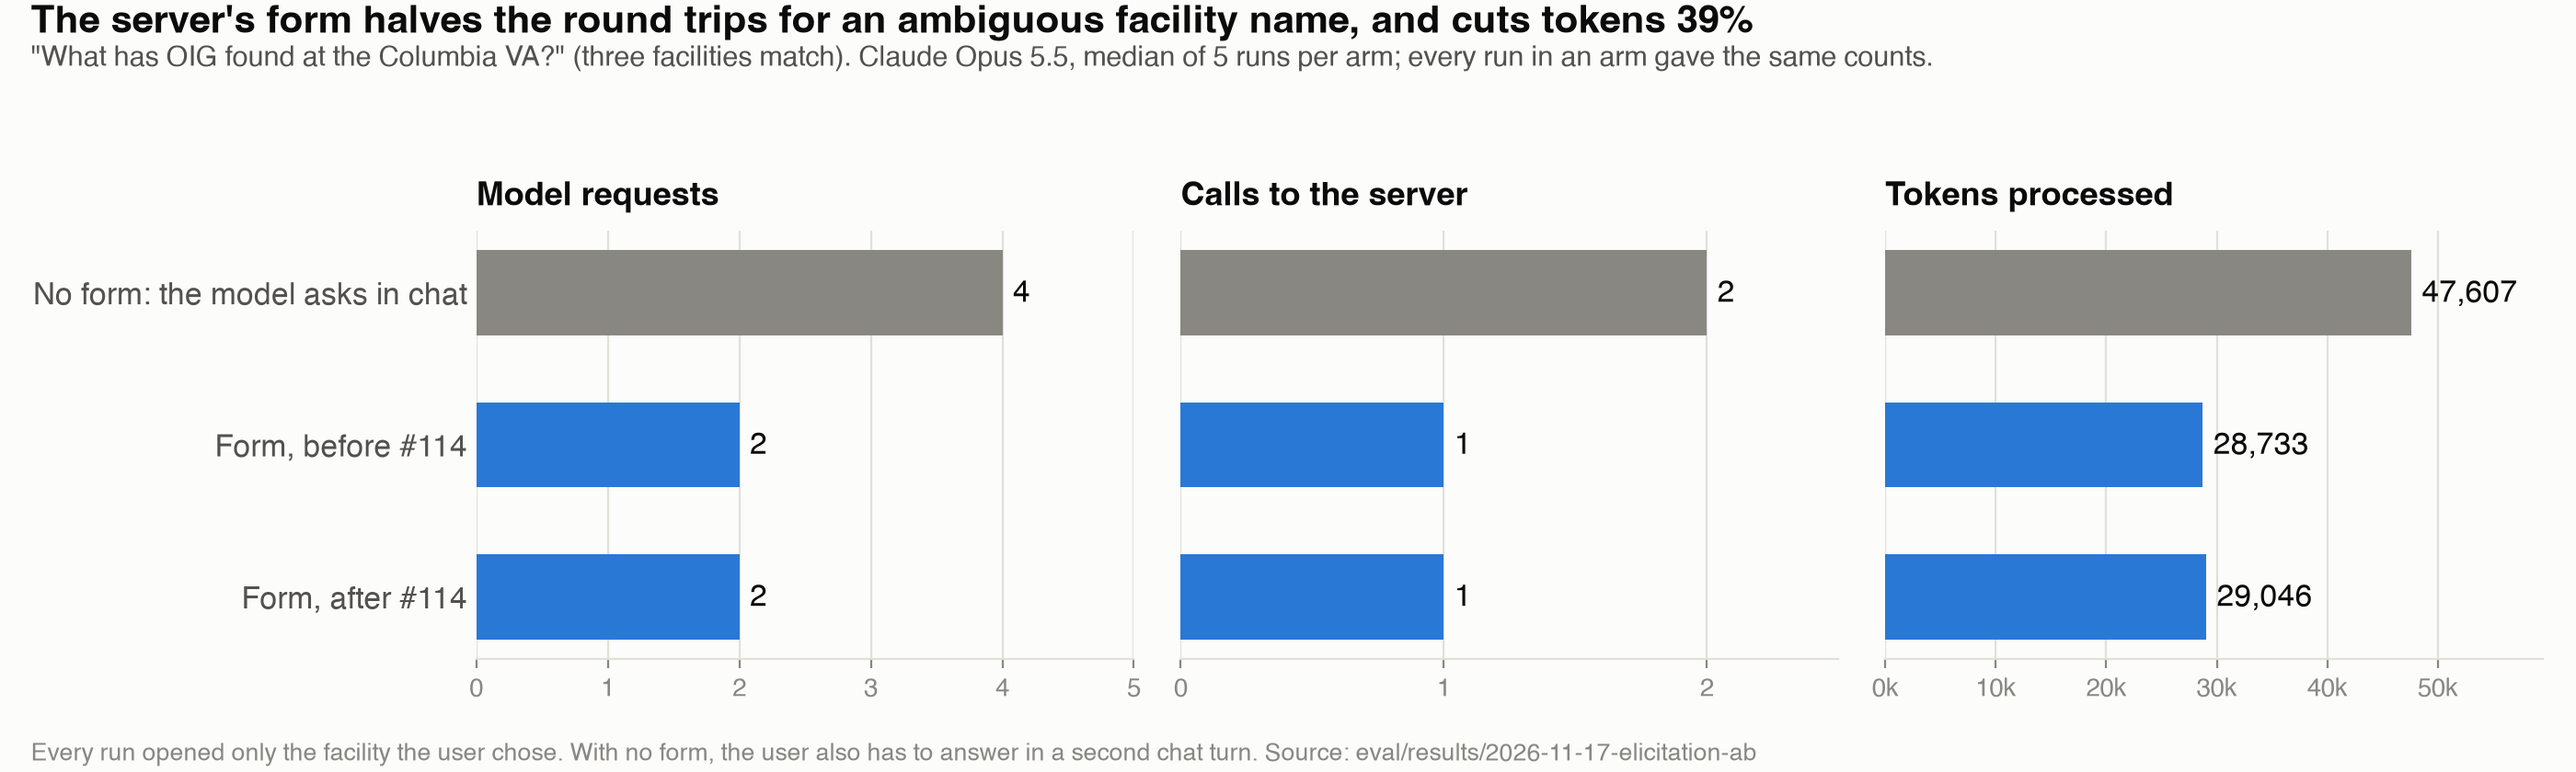
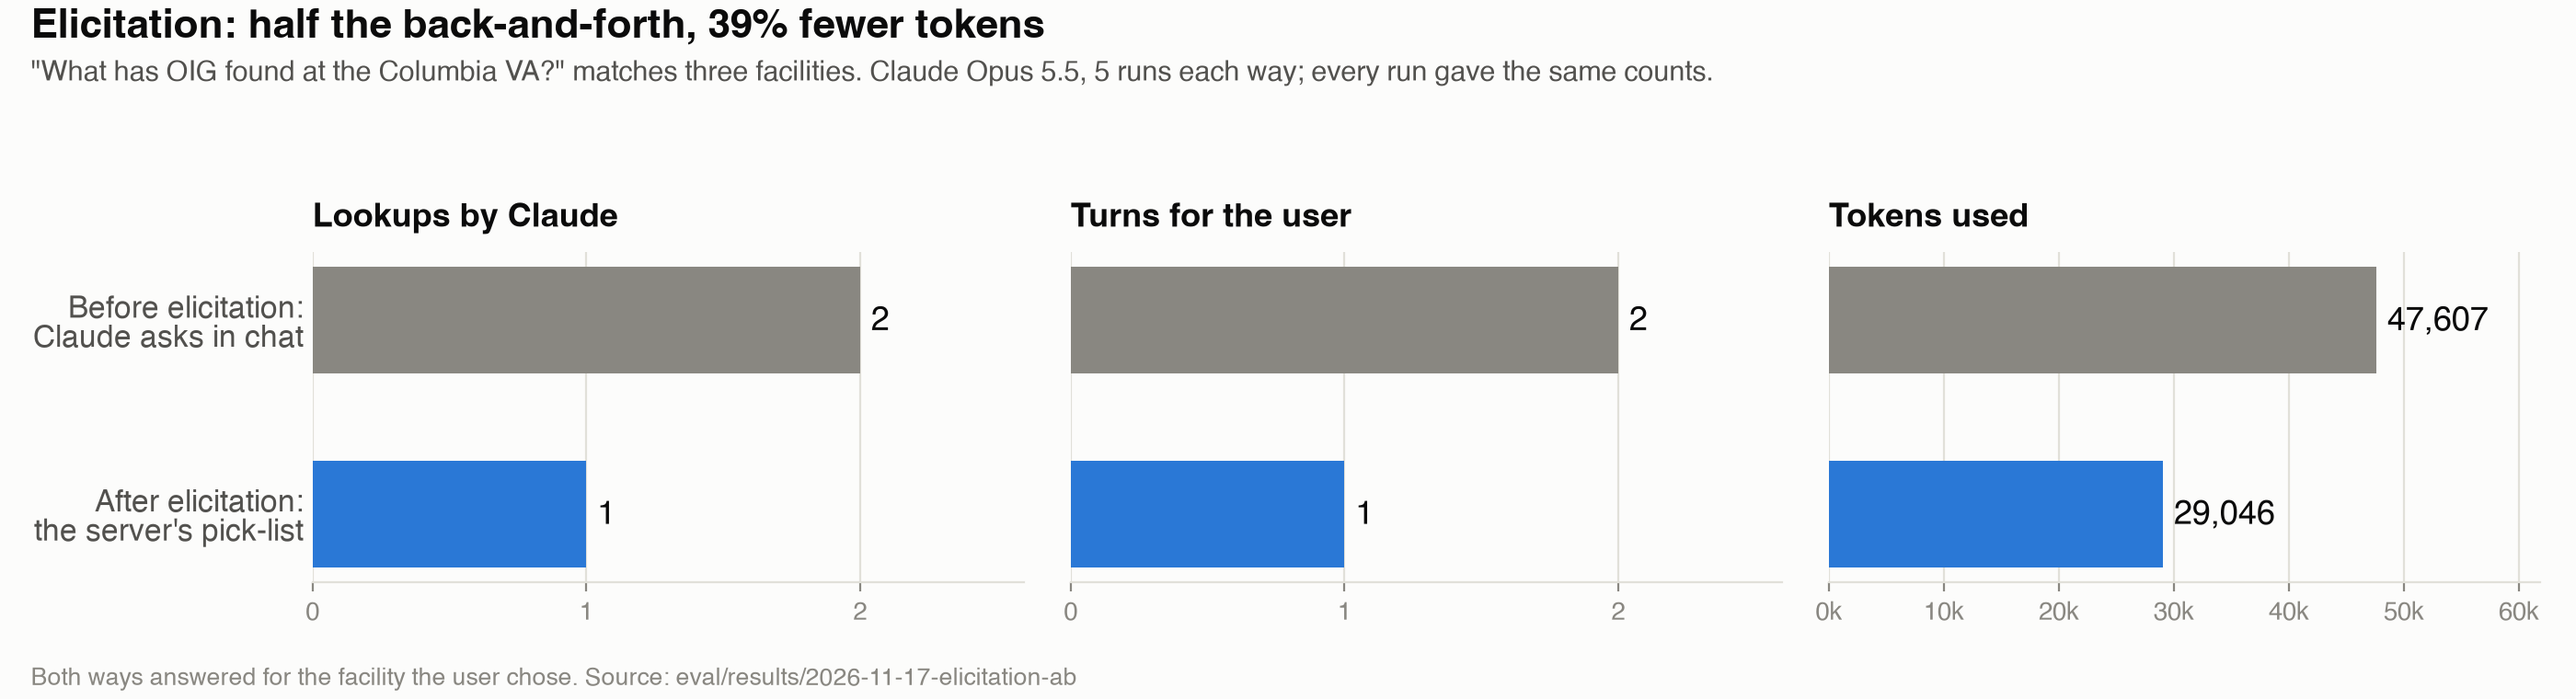
Elicitation chart and tables in plain terms: before and after elicitation (#118)
The chart compares two things only: Claude asking in chat (before
elicitation) and the server's pick-list (after): lookups, turns for the
user, and tokens. Tables lead with the same two columns; the run without
the "user chose" note stays as a third column.

diff --git a/eval/elicitation/chart.py b/eval/elicitation/chart.py
@@ -1,90 +1,83 @@
 """Draws docs/submission/images/elicitation-savings.png from the A/B runs.
 
-uv run --with matplotlib python eval/elicitation/chart.py
+Before elicitation: the model asks in chat which facility (the no_form arm).
+After elicitation: the server's pick-list asks (the current server with a form).
+
+    uv run --with matplotlib python eval/elicitation/chart.py
 """
 
 import json
 import statistics as st
 
 import matplotlib
+import matplotlib.pyplot as plt
+from matplotlib.ticker import FuncFormatter, MaxNLocator
 
 matplotlib.use("Agg")
-import matplotlib.pyplot as plt
 
 D = "eval/results/2026-11-17-elicitation-ab/"
-ba = json.load(open(D + "runs-before-after.json"))
-nf = json.load(open(D + "runs-no_form.json"))
+before = json.load(open(D + "runs-no_form.json"))["runs"]["no_form"]
+after = json.load(open(D + "runs-before-after.json"))["runs"]["after"]
 arms = [
-    ("No form: the model asks in chat", nf["runs"]["no_form"], "#898781"),
-    ("Form, before #114", ba["runs"]["before"], "#2a78d6"),
-    ("Form, after #114", ba["runs"]["after"], "#2a78d6"),
+    ("After elicitation:\nthe server's pick-list", after, "#2a78d6"),
+    ("Before elicitation:\nClaude asks in chat", before, "#898781"),
 ]
-SURF, INK, INK2, GRID = "#fcfcfb", "#0b0b0b", "#52514e", "#e1e0d9"
+SURF, INK, INK2, GRID, MUTED = "#fcfcfb", "#0b0b0b", "#52514e", "#e1e0d9", "#898781"
 plt.rcParams.update({"font.family": "Helvetica", "font.size": 12})
-fig, axes = plt.subplots(1, 3, figsize=(14, 4.2), dpi=200, facecolor=SURF)
+fig, axes = plt.subplots(1, 3, figsize=(14, 3.8), dpi=200, facecolor=SURF)
 panels = [
-    ("Model requests", "model_requests", "{:.0f}"),
-    ("Calls to the server", "server_calls", "{:.0f}"),
-    ("Tokens processed", "tokens", "{:,.0f}"),
+    ("Lookups by Claude", lambda r: r["server_calls"], "{:.0f}"),
+    ("Turns for the user", lambda r: r.get("user_turns", 1), "{:.0f}"),
+    ("Tokens used", lambda r: r["tokens"], "{:,.0f}"),
 ]
-labels = [a[0] for a in arms][::-1]
-for ax, (title, key, fmt) in zip(axes, panels):
-    vals = [st.median(r[key] for r in a[1]) for a in arms][::-1]
-    cols = [a[2] for a in arms][::-1]
+for ax, (title, get, fmt) in zip(axes, panels, strict=True):
+    vals = [st.median(get(r) for r in a[1]) for a in arms]
     ax.set_facecolor(SURF)
-    bars = ax.barh(range(3), vals, color=cols, height=0.56)
+    ax.barh(range(2), vals, color=[a[2] for a in arms], height=0.55)
     vmax = max(vals)
     for i, v in enumerate(vals):
-        ax.text(
-            v + vmax * 0.02,
-            i,
-            fmt.format(v),
-            va="center",
-            ha="left",
-            color=INK,
-            fontsize=12,
-        )
-    ax.set_xlim(0, vmax * 1.25)
+        ax.text(v + vmax * 0.02, i, fmt.format(v), va="center", color=INK, fontsize=13)
+    ax.set_xlim(0, vmax * 1.3)
     ax.set_title(title, loc="left", color=INK, fontsize=13, fontweight="bold", pad=10)
-    ax.set_yticks(range(3))
-    ax.set_yticklabels(labels if ax is axes[0] else [""] * 3, color=INK2)
+    ax.set_yticks(range(2))
+    ax.set_yticklabels([a[0] for a in arms] if ax is axes[0] else ["", ""], color=INK2)
     ax.tick_params(axis="y", length=0)
-    ax.tick_params(axis="x", colors="#898781", labelsize=10)
-    for s in ["top", "right", "left"]:
-        ax.spines[s].set_visible(False)
+    ax.tick_params(axis="x", colors=MUTED, labelsize=10)
+    for side in ["top", "right", "left"]:
+        ax.spines[side].set_visible(False)
     ax.spines["bottom"].set_color(GRID)
     ax.xaxis.grid(True, color=GRID, linewidth=0.8)
     ax.set_axisbelow(True)
-    if key != "tokens":
-        ax.xaxis.set_major_locator(matplotlib.ticker.MaxNLocator(integer=True))
-    if key == "tokens":
-        ax.xaxis.set_major_formatter(
-            matplotlib.ticker.FuncFormatter(lambda x, _: f"{x / 1000:.0f}k")
-        )
+    if title == "Tokens used":
+        ax.xaxis.set_major_formatter(FuncFormatter(lambda x, _: f"{x / 1000:.0f}k"))
+    else:
+        ax.xaxis.set_major_locator(MaxNLocator(integer=True))
 fig.suptitle(
-    "The server's form halves the round trips for an ambiguous facility name, and cuts tokens 39%",
+    "Elicitation: half the back-and-forth, 39% fewer tokens",
     x=0.012,
-    y=0.995,
+    y=0.99,
     ha="left",
     color=INK,
-    fontsize=15,
+    fontsize=16,
     fontweight="bold",
 )
 fig.text(
     0.012,
-    0.915,
-    '"What has OIG found at the Columbia VA?" (three facilities match). Claude Opus 5.5, median of 5 runs per arm; every run in an arm gave the same counts.',
+    0.885,
+    '"What has OIG found at the Columbia VA?" matches three facilities. '
+    "Claude Opus 5.5, 5 runs each way; every run gave the same counts.",
     ha="left",
     color=INK2,
     fontsize=11,
 )
 fig.text(
     0.012,
-    0.015,
-    "Every run opened only the facility the user chose. With no form, the user also has to answer in a second chat turn. Source: eval/results/2026-11-17-elicitation-ab",
+    0.02,
+    "Both ways answered for the facility the user chose. "
+    "Source: eval/results/2026-11-17-elicitation-ab",
     ha="left",
-    color="#898781",
+    color=MUTED,
     fontsize=9.5,
 )
-fig.tight_layout(rect=(0, 0.05, 1, 0.9))
+fig.tight_layout(rect=(0, 0.06, 1, 0.86))
 fig.savefig("docs/submission/images/elicitation-savings.png", facecolor=SURF)

diff --git a/docs/evaluation/results.md b/docs/evaluation/results.md
@@ -339,16 +339,16 @@ With the server's two changes, the same question took one call to the server ins
 
 To measure elicitation itself, the same question ran five times in each of three arms through Anthropic's API, Claude Opus 5.5 at medium effort, with only the server's instructions as the system prompt and a scripted user who always chose Missouri: the current server with a client that cannot show forms (the model asks in chat and the user answers "The one in Missouri"), and a client that shows the form, against the server before and after #114. Every run in an arm gave the same counts. [Full results and every answer](../../eval/results/2026-11-17-elicitation-ab/summary.md), from [`eval/elicitation/ab_run.py`](../../eval/elicitation/ab_run.py).
 
-![The server's form halves the round trips for an ambiguous facility name and cuts tokens 39 percent](../submission/images/elicitation-savings.png)
+![Elicitation: half the back-and-forth and 39 percent fewer tokens for an ambiguous facility name](../submission/images/elicitation-savings.png)
 
-| Five runs each, medians | No form: the model asks in chat | Form, before #114 | Form, after #114 |
+| Five runs each, medians | Before elicitation: Claude asks in chat | After elicitation: the server's pick-list | Pick-list without the "user chose" note (before #114) |
 |---|---|---|---|
 | Calls to the server | 2 | 1 | 1 |
 | Model requests | 4 | 2 | 2 |
 | User turns | 2 | 1 | 1 |
-| Tokens processed | 47,607 | 28,733 | 29,046 |
-| Answer pointed the user to another facility | 0 of 5 | 5 of 5 | 0 of 5 |
-| Answer said the user chose this facility | n/a | 0 of 5 | 5 of 5 |
+| Tokens processed | 47,607 | 29,046 | 28,733 |
+| Answer pointed the user to another facility | 0 of 5 | 0 of 5 | 5 of 5 |
+| Answer said the user chose this facility | n/a | 5 of 5 | 0 of 5 |
 
 **The form halves the round trips.** Against the fallback every host can use, the form took one call instead of two, two model requests instead of four, one user turn instead of two, and 39 percent fewer tokens, for the same facility. Each request avoided re-reads the whole conversation, so the saving grows with the host's context, as the Claude Code takes show. The fallback held too: with no form, the model asked in all five runs and never chose. And with the form, the user's choice goes to the server unchanged rather than through the model.
 

diff --git a/docs/submission/evaluation-document.md b/docs/submission/evaluation-document.md
@@ -194,14 +194,14 @@ A facility name that matches several, such as "the Columbia VA" (South Carolina,
 
 **What the form saves**, measured: "What has OIG found at the Columbia VA?", five runs per arm, Claude Opus 5.5 through Anthropic's API, a scripted user choosing Missouri. Every run in an arm gave the same counts.
 
-| Five runs each, medians | No form: the model asks in chat | Form, before #114 | Form, after #114 |
+| Five runs each, medians | Before elicitation: Claude asks in chat | After elicitation: the server's pick-list | Pick-list without the "user chose" note (before #114) |
 |---|---|---|---|
 | Calls to the server | 2 | 1 | 1 |
 | Model requests | 4 | 2 | 2 |
 | User turns | 2 | 1 | 1 |
-| Tokens processed | 47,607 | 28,733 | 29,046 |
-| Answer pointed the user to another facility | 0 of 5 | 5 of 5 | 0 of 5 |
-| Answer said the user chose this facility | n/a | 0 of 5 | 5 of 5 |
+| Tokens processed | 47,607 | 29,046 | 28,733 |
+| Answer pointed the user to another facility | 0 of 5 | 0 of 5 | 5 of 5 |
+| Answer said the user chose this facility | n/a | 5 of 5 | 0 of 5 |
 
 The form halved the round trips against asking in chat and cut tokens 39 percent, and the user's choice reached the server without passing through the model. The notice changed the answer, not the cost. In Claude Code, whose own context is far larger, single takes before and after #114 went from three or four calls to the server and 316,094 and 431,343 tokens to one call and 171,280 tokens. No desktop app has shown the form yet: Claude Desktop accepts URL mode only. Detail: [Evaluation results](../evaluation/results.md#what-the-form-saves).
 

diff --git a/docs/submission/deck.md b/docs/submission/deck.md
@@ -204,9 +204,9 @@ vaoig.gov ──> data service: crawler, SQLite, JSON API, behind Cloudflare Acc
 
 **The finding:** hosts implement MCP unevenly. VS Code, Cursor, Claude Code, and Grok declare form support; Claude Desktop accepts URL mode only; Hermes can only approve or deny; Orchestrate declared none. A safety behavior cannot depend on one protocol feature, so the server degrades to the next step.
 
-**What the form saves:** measured over five runs each, the form halves the round trips against asking in chat (2 model requests instead of 4, 1 call to the server instead of 2) and cuts tokens 39 percent, and the user's choice reaches the server without passing through the model.
+**What elicitation saves:** before elicitation, Claude asks "which Columbia?" in chat and the user types an answer; after elicitation, the server's pick-list asks. Measured over five runs each: 1 lookup instead of 2, 1 turn for the user instead of 2, and 39 percent fewer tokens, and the user's choice reaches the server without passing through the model.
 
-![The server's form halves the round trips for an ambiguous facility name and cuts tokens 39 percent](images/elicitation-savings.png)
+![Elicitation: half the back-and-forth and 39 percent fewer tokens for an ambiguous facility name](images/elicitation-savings.png)
 
 **Visual:** The chart above, and the Claude Code form for "the Columbia VA" (from the demo recording) beside a host asking in chat, under this flow:
 

diff --git a/eval/results/2026-11-17-elicitation-ab/summary.md b/eval/results/2026-11-17-elicitation-ab/summary.md
@@ -12,17 +12,17 @@
 
 ## Results (medians of five runs; every run in an arm gave the same counts)
 
-| | No form | Form, before #114 | Form, after #114 |
+| | Before elicitation: Claude asks in chat | After elicitation: the server's pick-list | Pick-list without the "user chose" note (before #114) |
 |---|---|---|---|
 | Calls to the server | 2 | 1 | 1 |
 | Model requests | 4 | 2 | 2 |
 | User turns | 2 | 1 | 1 |
-| Tokens processed | 47,607 | 28,733 | 29,046 |
-| Tool output read (characters) | 29,859 | 27,879 | 28,112 |
-| Seconds, excluding the user's reply | 27.9 | 24.0 | 24.9 |
+| Tokens processed | 47,607 | 29,046 | 28,733 |
+| Tool output read (characters) | 29,859 | 28,112 | 27,879 |
+| Seconds, excluding the user's reply | 27.9 | 24.9 | 24.0 |
 | Opened only the facility chosen | 5 of 5 | 5 of 5 | 5 of 5 |
-| Answer pointed the user to another facility | 0 of 5 | 5 of 5 | 0 of 5 |
-| Answer said the user chose this facility | n/a | 0 of 5 | 5 of 5 |
+| Answer pointed the user to another facility | 0 of 5 | 0 of 5 | 5 of 5 |
+| Answer said the user chose this facility | n/a | 5 of 5 | 0 of 5 |
 
 ## What it shows
 
